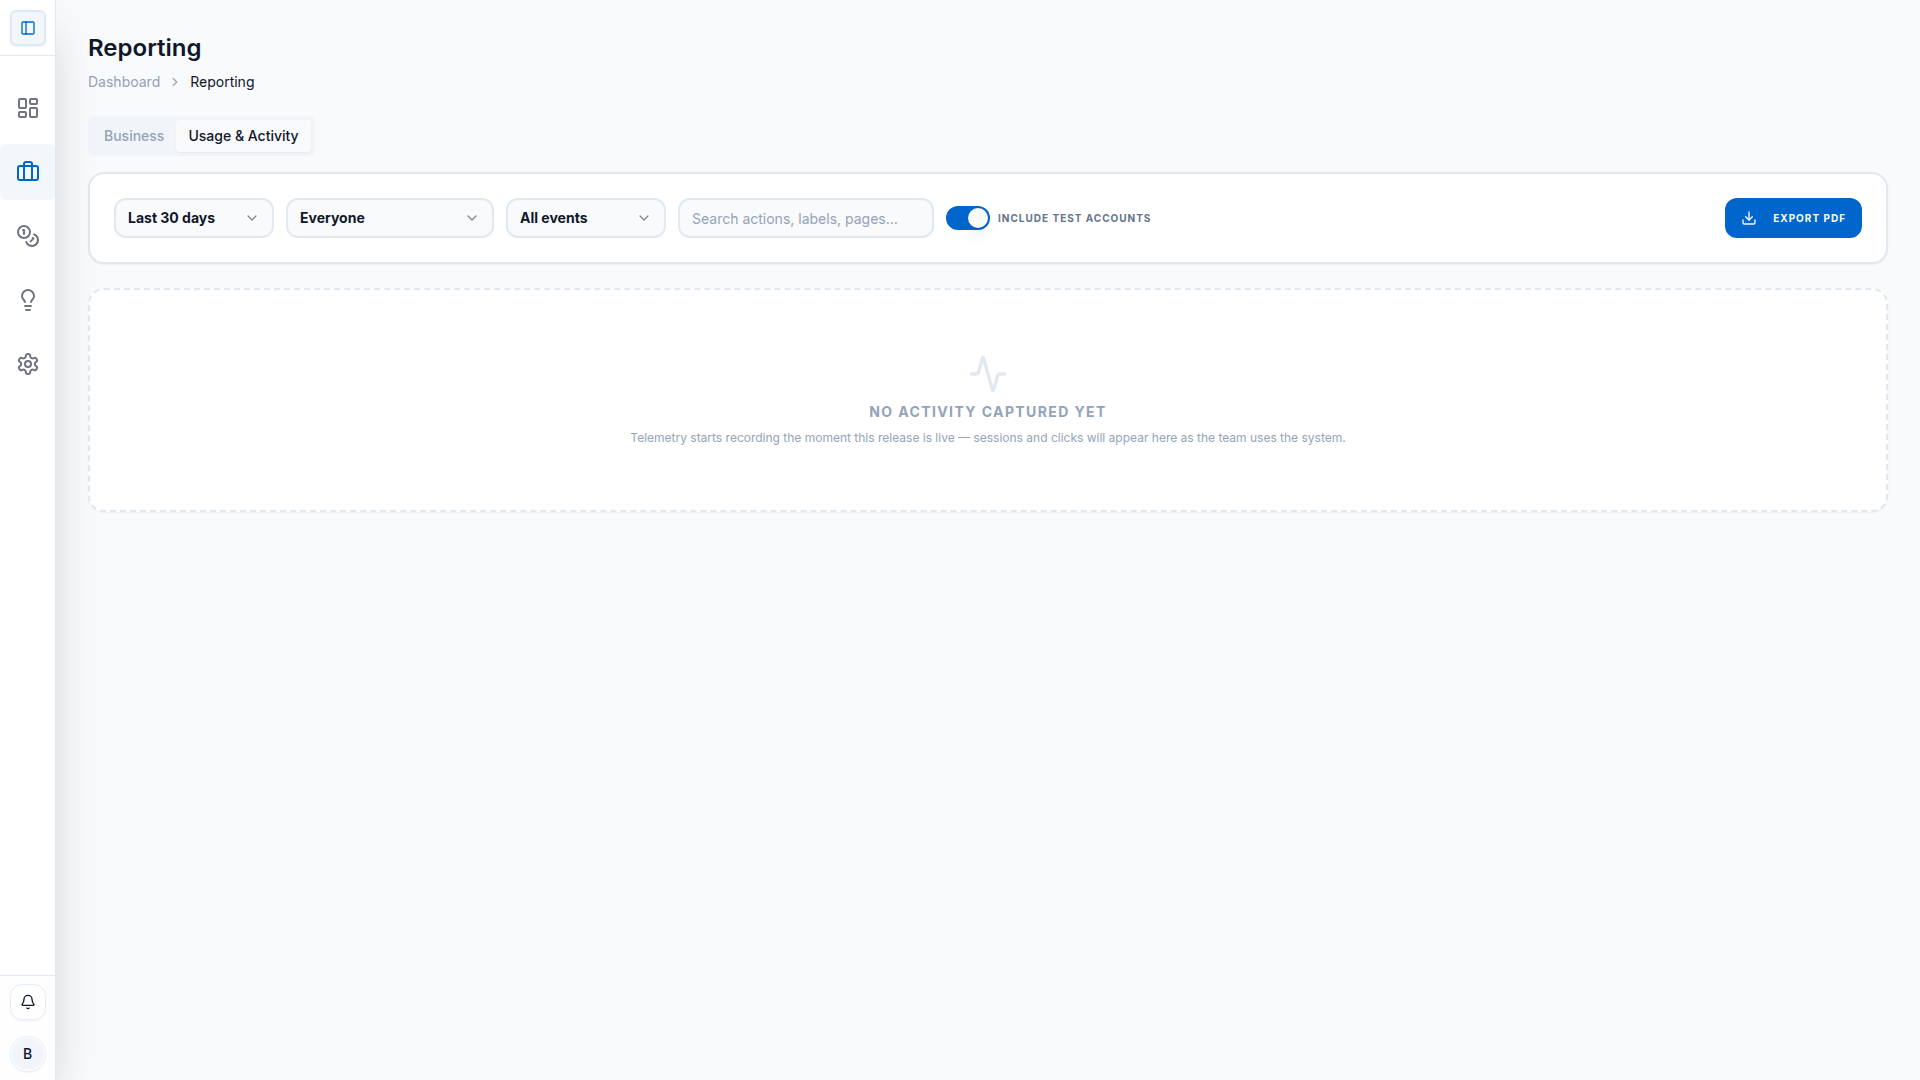
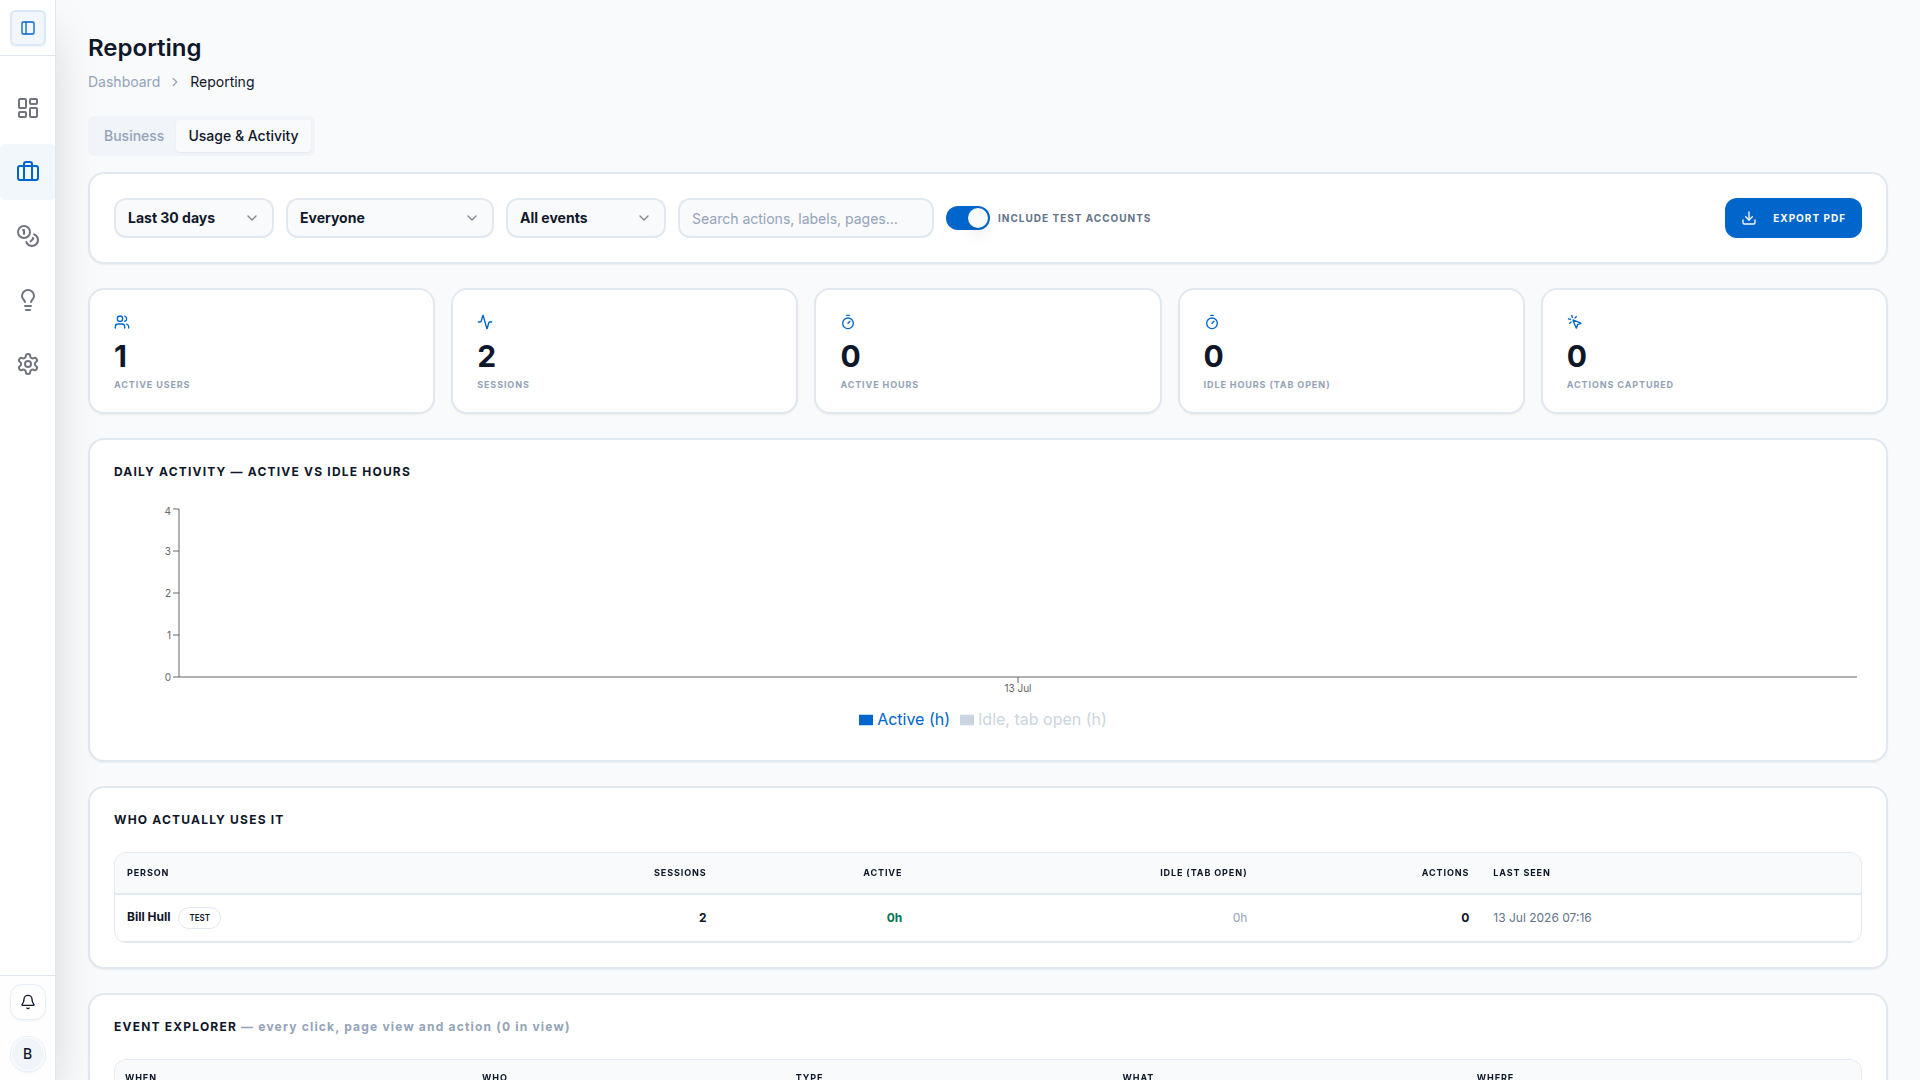
fix(telemetry): capture the landing nav event at engine start
Rules are now published and the smoke proved sessions land (Bill Hull,
2 sessions, TEST badge) but zero events: the provider's logNav on mount
fires before the org profile resolves and startTelemetry runs, so
enqueue() dropped it — a fresh page-open that never SPA-navigates or
clicks captured no events at all. startTelemetry now enqueues the
landing pathname itself, where started is guaranteed true.

Smoke strengthened to assert events actually stream into the explorer
(waits out a 15s flush cycle on the live subscription, parses the
'(N in view)' count, requires > 0). Evidence artifacts from the
sessions-only run included; re-capture with the fix is next.

Claude-Session: https://claude.ai/code/session_01N8htvKjvX1mxB76joJ9QQg

diff --git a/tests/usage-reporting-smoke.spec.ts b/tests/usage-reporting-smoke.spec.ts
@@ -41,10 +41,20 @@ test('telemetry captures a session and the reports render it', async ({ page }) 
     const hasExplorer = /Event explorer/i.test(body);
     const hasBill = /Bill/i.test(body);
     console.log(`sections: sessions=${hasSessions} leaderboard=${hasLeaderboard} explorer=${hasExplorer} billVisible=${hasBill}`);
-    await page.screenshot({ path: `${SHOTS}/usage-tab.png`, fullPage: true });
 
     expect(hasLeaderboard && hasExplorer, 'report sections render').toBe(true);
     expect(hasBill, 'the freshly-captured test session appears').toBe(true);
+
+    // EVENTS must land too, not just sessions. This page's own telemetry
+    // (landing nav + tab click + toggle click) flushes on the 15s cycle,
+    // and the explorer is a live subscription — wait a cycle out and the
+    // rows stream in without a reload.
+    await page.waitForTimeout(20000);
+    const body2 = await page.evaluate(() => document.body.innerText);
+    const explorerCount = Number((body2.match(/\((\d[\d,]*) in view\)/) || [])[1]?.replace(/,/g, '') ?? 0);
+    console.log(`events in view after flush cycle: ${explorerCount}`);
+    await page.screenshot({ path: `${SHOTS}/usage-tab.png`, fullPage: true });
+    expect(explorerCount, 'captured events stream into the explorer').toBeGreaterThan(0);
 
     // PDF export of the current view.
     const dlPromise = page.waitForEvent('download', { timeout: 120000 });

diff --git a/src/lib/telemetry.ts b/src/lib/telemetry.ts
@@ -179,6 +179,13 @@ export function startTelemetry(opts: {
         path: window.location.pathname,
     }).catch(() => {});
 
+    // The provider's logNav(pathname) fires on mount BEFORE the org resolves
+    // and telemetry starts, so enqueue drops it — on a fresh page load the
+    // landing nav would never be captured (a user who opens the app and
+    // reads without clicking would look like zero activity). Capture the
+    // landing route here, at start, where state.started is guaranteed.
+    enqueue('nav', window.location.pathname, null);
+
     // Input listeners mark activity (throttled by assignment cost only).
     const markInput = () => { if (state) state.lastInputAt = Date.now(); };
     for (const evt of ['pointerdown', 'keydown', 'wheel', 'touchstart'] as const) {
